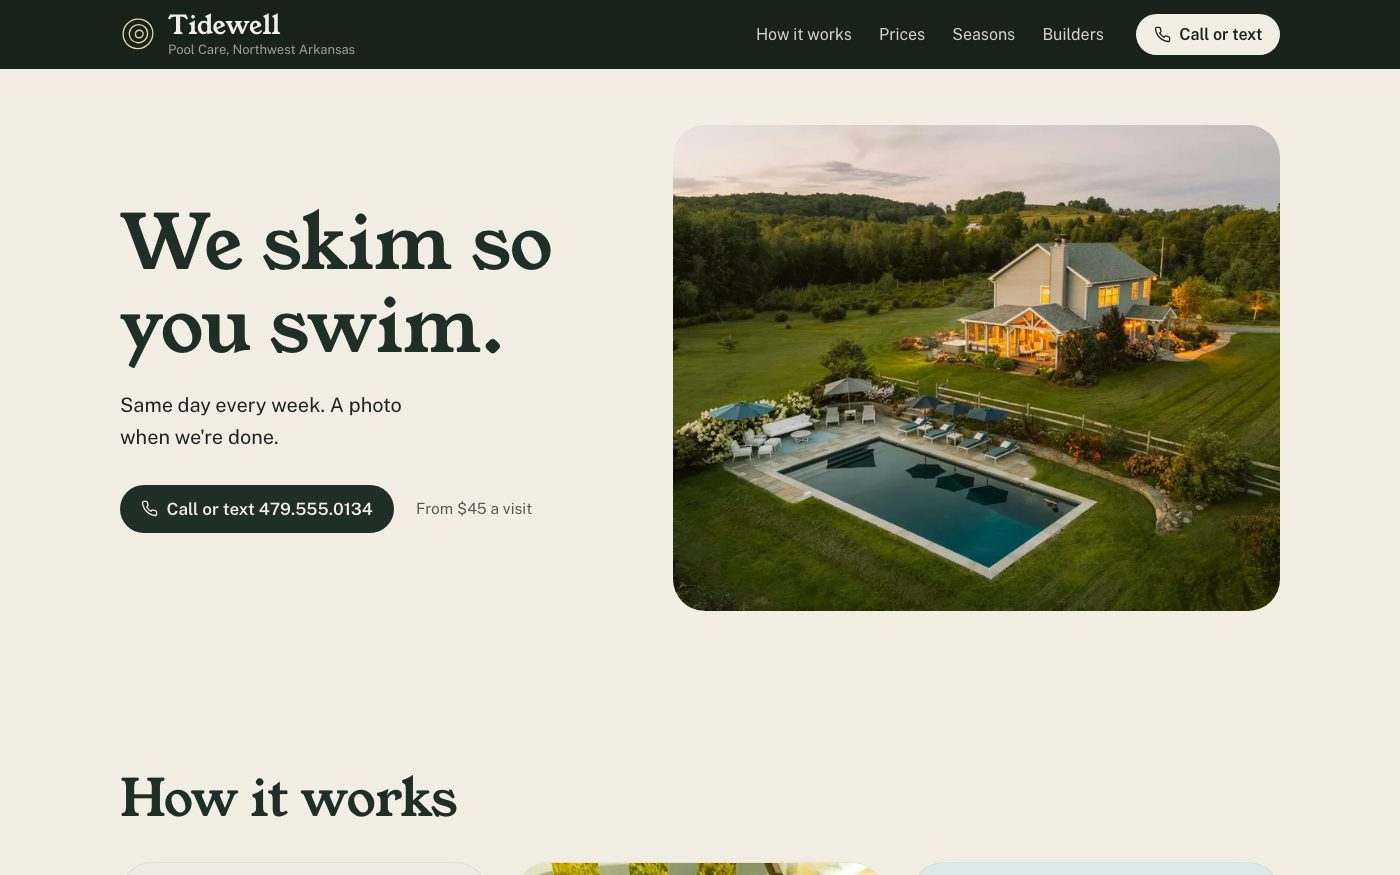
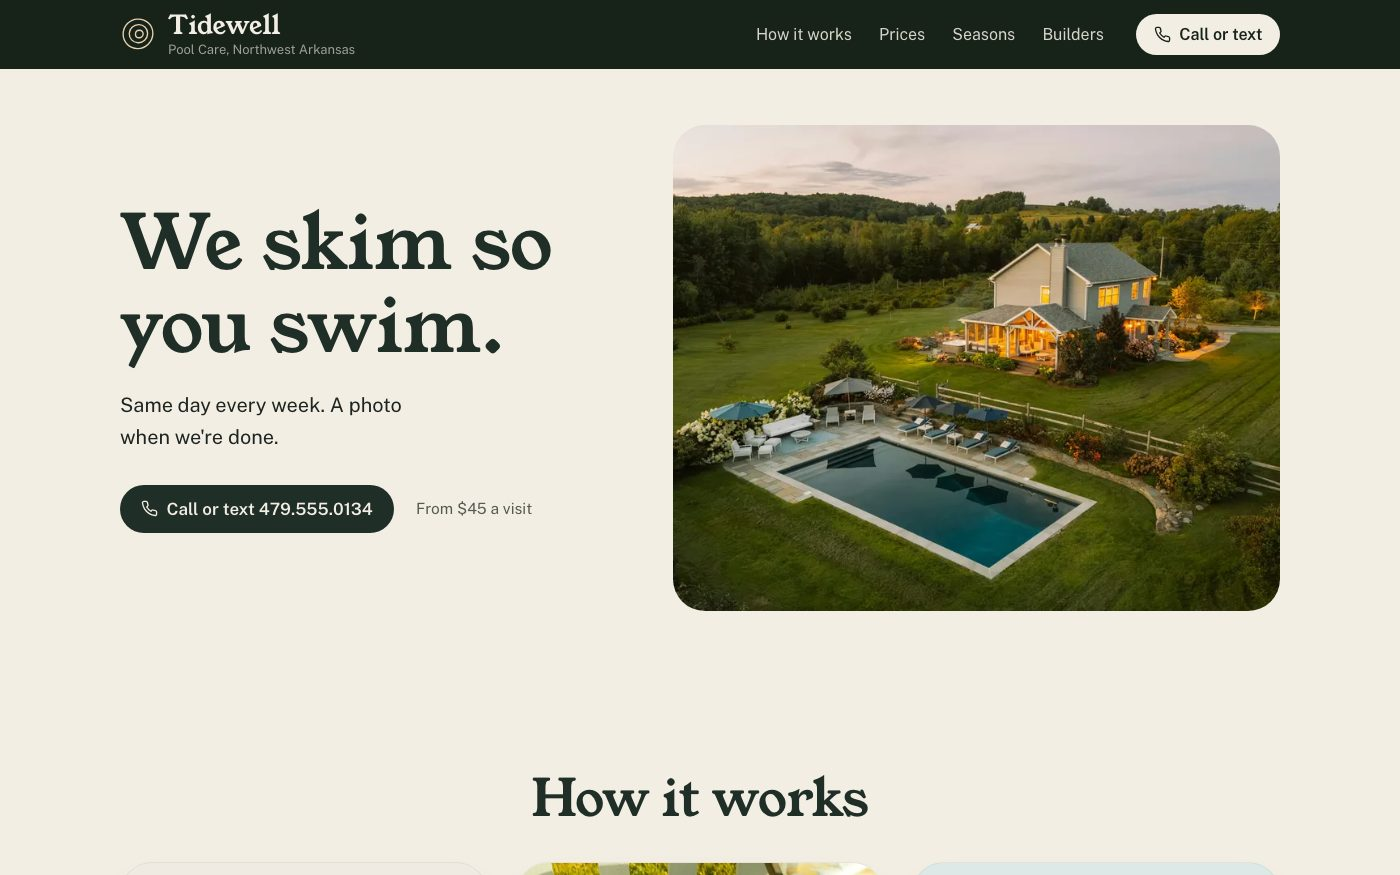
Tidewell demo: centred section headers

Changed region(s): [[0.0921, 0.864, 0.3379, 0.9566], [0.3686, 0.8949, 0.6143, 0.9566]]

diff --git a/index.html b/index.html
@@ -152,13 +152,13 @@
     <div class="client-feature">
       <!-- Preview: a still of the site (no iframe, nothing to load or scroll
            by accident). "Try it live" opens the real site full-screen. -->
-      <figure class="site-preview" data-src="demo/tidewell/?v=17"
+      <figure class="site-preview" data-src="demo/tidewell/?v=18"
               data-name="Tidewell Pool Care">
         <div class="sp-chrome" aria-hidden="true">
           <span class="sp-dot"></span><span class="sp-dot"></span><span class="sp-dot"></span>
         </div>
         <div class="sp-stage">
-          <img class="sp-shot" src="images/demo-tidewell-desktop.jpg?v=17" alt="Tidewell Pool Care website home page" width="1400" height="875" loading="lazy" decoding="async">
+          <img class="sp-shot" src="images/demo-tidewell-desktop.jpg?v=18" alt="Tidewell Pool Care website home page" width="1400" height="875" loading="lazy" decoding="async">
           <button type="button" class="sp-open" aria-label="Explore the Tidewell website live"></button>
         </div>
       </figure>

diff --git a/demo/tidewell/index.html b/demo/tidewell/index.html
@@ -365,6 +365,12 @@ nav.main a:hover{color:#fff; text-decoration-color:#E6D2AE}
 .foot-name span{display:block; font-size:13px; color:rgba(243,238,228,.62); margin-top:3px}
 .foot .foot-name b{font-size:24px}
 .step-tile.card-top{align-items:flex-start}
+
+/* centred section headers */
+.steps-head,.year h2,.faq h2{text-align:center}
+.prices-head{display:block; text-align:center}
+.builders-grid > div{text-align:center; display:flex; flex-direction:column; align-items:center}
+.builders .intro{margin-inline:auto}
 </style>
 </head>
 <body>
